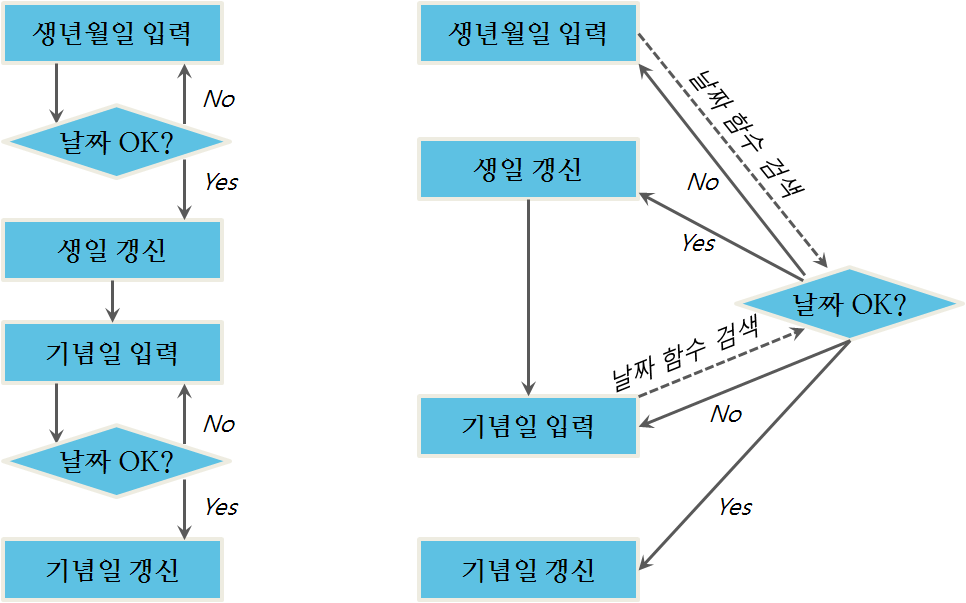
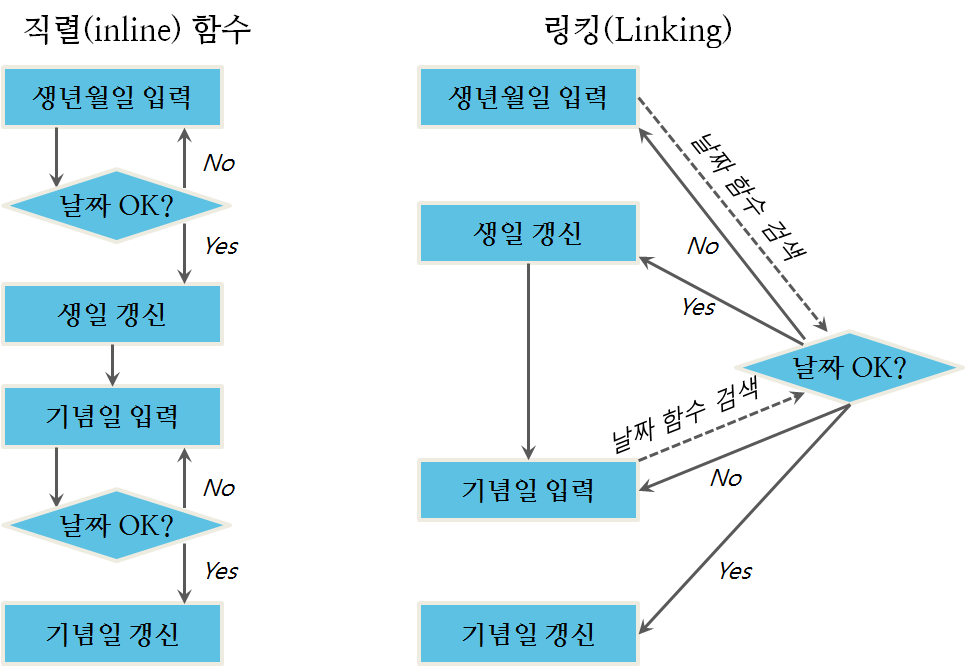
finished the initial chapter 02 translation

diff --git a/ch02-tutorial-on-computer-software.html b/ch02-tutorial-on-computer-software.html
@@ -95,6 +95,66 @@ One.\n&quot;)};return 0;}</code></pre>
 <p>식당손님으로 사용자는 식당이 어떻게 운영되는지 제한된 정보만 갖고 있다. 하지만, 보통 식당손님이 식당이 어떻게 운영되는지 알 필요는 없다; 손님은 단지 식사만 원할 뿐이다. 주방 종업원은 음식조리를 하려고 하지만 식당손님이 주방으로 넘어들어 오는 것을 원치는 않는다. 왜냐하면, 위험할 수도 있고 주방요리사 집중을 분산시킬 수도 있다.</p>
 <p>따라서, 응용프로그램은 하드웨어에 제한된 접근을 갖고, 미리 정의된 방식으로 운영체제와 상호작용해야 하며, 운영체제가 할당한 공간 내에서만 동작해야만 된다. 결과로, 프로그램을 작성하는데 있어 응용프로그램이 더 간단하고 효율적이다.</p>
 <h3 id="동적-링킹과-정적-링킹">동적 링킹과 정적 링킹</h3>
+<p>이론적으로, 백지 한장을 갖고 앉아서 단일 소스코드 파일로 구성된 프로그램을 작성하는 것이 가능하다. 하지만, 어느 누구도 그런 방식으로 소프트웨어를 작성하지는 않는다. 변호사는 이점을 잘 이해하여야 되는데 이유는 결코 아무 것도 없는 상태에서 복잡한 문서를 작성하는 않는다; 대신에, 모형 혹은 사례를 가지고 시작하고 목적에 맞춰 가다듬어 나간다. 매번 동일한 변경작업을 수행하고 있다고 발견한 일부 변호사는 상황에 맞춰 변하는 정보만을 채워서 효과적으로 준비할 수 있는 서식형태 문서를 만들어 나간다. 만약 변호사가 아니라면, 아마도 편지나 발표자료를 준비하고 나서 생각하기에 유사한 또다른 편지나 발표자료도 준비했다. 아마도 원래 편지나 발표자료 일부분을 모형으로 사용하고 다른 부분은 폐기했을 것이다.</p>
+<p>프로그래머도 동일한 방식으로 프로그램을 작성하지만, 철저하게 체계적인 재사용 접근방법을 취한다. 이렇게 하는 것이 표절이나 부정행위는 아니다 - 좋은 코딩 관례다. 이유는 코드가 기능적이기 때문이다; 코드는 올바르게 동작해야만 된다. 이미 검증된 코드는 만약 작업을 수행하는데 효과적이라면, 다시 코드를 작성하기 보다 적절하게 재사용되어야 한다. 변호사처럼 프로그래머도 프로그램 실행을 기술하는 소스코드와 사람이 읽을 수 있는 문서에 모두 예술적 문구를 사용한다. 이런 예술적 문구를 통합하는 것은 최소 학습 비용으로 좀더 많은 프로그래머가 팀에 추가될 수 있다는 의미를 함축하고 있다.</p>
+<p>예를 들어, 사용자가 본인 전화번호를 프로그램에 입력하는 소프트웨어를 프로그래머가 작성한다고 가정하자. 전화번호는 특정 구성방식이 있다 - 미국에서는 <code>1-617-542-5942</code> 같은 구성방식이 사용된다. <code>1</code> 은 국가코드, <code>617</code>은 지역코드, <code>542</code>는 교환번호, <code>5742</code>는 숫자다. 다른 국가와 도시에 다른 구성방식이 존재한다. 그래서, 프로그래머가 코드 일부를 사용해서 사용자 입력을 옮겨가기 전에 번호가 올바른 구성방식인지 검증하고자 한다.</p>
+<p>분명히, 무수히 많은 사람들이 단순 연산작업을 수행해야 하지만, 프로그래머가 가능한 적법한 모든 구성방식을 알지는 못한다. 그래서, 프로그래머가 이 작업을 수행하던 기존 라이브러리 루틴을 사용하는 것은 일리가 있다. 프로그래머는 사용자에게서 받은 입력값(키보드로 타이핑된 문자열)을 전송하고 부울 값으로 반환결과가 나오길 예상한다: OK면 참(TRUE), KO면 거짓(FALSE). 만약 이런 라이브러리 루틴이 잘 작성되었다면, 모든 프로그래머는 어떤 정보가 전송되고 반환되는 정보가 무슨 의미인지 알 수 있어야 된다. 앞에서 설명되했듯이, 루틴이 동작하는 것은 프로그래머에게 블랙박스다. 식당을 비유하자면, 만약 주방이 잘 운영되고 있다고 믿는다면, 주방에서 무슨 일이 일어나는지 알 필요는 없다 - 단지 입력값(메뉴 주문)을 건네주고 출력값(식사)을 받기만 하면 된다.</p>
+<p>이제 프로그래머가 이런 작업을 많이 수행한다고 생각해보자. 예를 들어, 만약 사용자가 한 페이지에 정보를 채워넣는다면, 모든 필드가 검사될 필요가 있다. 프로그래머는 수많은 표준과 계산 목적에 맞춘 코드 라이브러리를 사용한다 - 사용자 입력 파싱, 출력을 프린터에 전송, 수학적 계산 뿐만 아니라, 전자우편 발송과 모뎀이 켜져 있는지, 프로그램 갱신에 대한 점검 같은 복잡한 작업을 들 수 있다. 어떤 경우에도 프로그래머는 바퀴를 재발명하고 싶지는 않다 (“Don’t reinvent the wheel”). 프로그래머는 작성한 프로그램이 새로운 것을 수행하는데만 집중하고자 한다. 위에서 기술된 함수 [예제][4]가 다음에 나와 있다:</p>
+<pre><code>[4]:코드 프로젝트에서 함수를 가져왔다: http://www.codeproject.com/Articles/1874/Validating-E-Mails-amp-Phone-Number/</code></pre>
+<pre class="sourceCode python"><code class="sourceCode python">BOOL ValidatePhone(CString FaxNum)
+{
+    BOOL        RtnVal = TRUE;
+
+    <span class="kw">if</span>(FaxNum.GetLength() != <span class="dv">11</span>)
+    {
+        RtnVal = FALSE;
+    }
+    <span class="kw">else</span>
+    {
+        <span class="dt">int</span>     Pos;
+        <span class="dt">int</span>     NumChars;
+
+        NumChars = FaxNum.GetLength();
+        FaxNum.MakeUpper();
+
+        <span class="kw">for</span>(Pos = <span class="dv">0</span>; Pos &lt; NumChars; Pos ++)
+        {
+            <span class="kw">if</span>(!isdigit(FaxNum[Pos]))
+            {
+                <span class="kw">if</span>(!isspace(FaxNum[Pos]))
+                    RtnVal = FALSE;
+            }
+        }
+    }
+    <span class="kw">return</span> RtnVal;
+}</code></pre>
+<p>상기 예제에서, 반환되는 값은 <em>BOOL</em>, 즉 부울값 참(true) 혹은 거짓(false)이다. 입력은 <code>Num</code>으로 문자열이다. 상기 루틴은 문자 갯수가 올바른지와 모든 문자가 숫자 혹은 공백인지만 검사한다. 루틴의 첫번째 줄은 어떤 정보가 문자열로 전달될 필요가 있는지 무슨 정보가 반환되는지 (부울값)를 보여준다. 만약 프로그래머가 상기 루틴이 본인 목적을 달성한다는 것을 안다면, 프로그래머가 알 필요가 있는 것은 첫번째 줄이다. 상기 루틴을 실행시킬 때, 프로그래머는 다음과 같은 라인을 포함한다:</p>
+<pre class="sourceCode python"><code class="sourceCode python">    until ValidatePhone (MyNum). . .{[code to <span class="dt">input</span> My-
+    Num <span class="ch">from</span> the user]};</code></pre>
+<p>숫자가 적법하고 루틴이 참값을 반환할 때까지 상기 라인은 실행된다.</p>
+<p>프로그래머가 사용에 필요한 모든 루틴을 갖게 되고, 모든 루틴을 목적코드로 컴파일하고 나면, 함께 목적코드를 엮을 필요가 있다. 다른 말로, 상기 코드 라인을 작성할 때, 컴퓨터는 상기 루틴에 대한 목적 코드를 찾아서 실행하고 나서 결과를 프로그램에 다시 전달한다. 이 작업을 위해서, 컴퓨터는 해당 루틴을 어디서 찾을 수 있는지, 작업결과를 어디로 다시 전달해야 하는지 알 필요가 있다. 이 과정이 그림 2.4와 같다.</p>
+<p><img src="fig/fig-2-4-communication-between-program-and-routine.png" width="70%" alt="프로그램과 루틴 사이 의사소통" /> 그림 2.4 프로그램과 루틴 사이 의사소통</p>
+<p>전체 프로그램은 목적 코드와 함께 메인 프로그램에서 전화번호 루틴으로 들어가는 출입구에 대한 정보가 담겨있다.</p>
+<p>프로그램이 효율적으로 루틴을 모듈로 구분한다고 가정하면, 효율적으로 실행되는 프로그램을 만들도록 좀더 많은 의사결정항목이 남아있다. 프로그래밍은 항상 메모리 사용과 속도 사이에 주고받는 균형점을 찾아야 한다. 예를 들어, 전체 프로그램이 한덩어리 매우 큰 “이진 BLOB(Binary Large Object)”으로 존재하면 매우 빠르게 실행된다. 하지만, 그렇게 되면 엄청난 [메모리][5] 자원을 사용한다. 속도와 메모리의 적절한 균형을 찾고자, 프로그래머는 <em>빌드(build)</em> 해서 소프트웨어를 만든다.</p>
+<pre><code>[5]: *메모리(memory)*는 컴퓨터가 프로그램을 간직하고 실행하는 영역임을 명심한다; *저장소(storage)*는 하드디스크, CD-ROM, USB 드라이브 처럼 파일을 저장하는 장소다.</code></pre>
+<p>그림 2.5에 나온 도식화는 날짜 검증 루틴을 사용하는 프로그램 빌드 방법을 나타내고 있는데 이런 점을 고려하고 있다.</p>
+<p>“링킹(Linking)” 선택옵션은 적은 메모리를 필요로 한다. 네모 상자와 다이아몬드 표식을 메모리로 사용되는 공간으로 간주할 수 있다. 링킹 선택옵션에는 단지 “날짜 OK?” 루틴이 단 하나만 사용된다. 반면에 직렬(inline) 함수 선택옵션의 경우는 동일하지만, 두번 나온다. 하지만, 링킹 선택옵션은 좀더 늦게 실행되는데 이유는 자동으로 “날짜 OK” 함수를 내려가면서 실행하는 대신에, 컴퓨터가 함수를 찾고(점선으로 표현됨), 실행하고, 메인 프로그램 처리에 결과값을 반환해야만 된다.</p>
+<p>C++같은 일부 언어에서, 링크 연결하는 다른 방식이 있다. 컴퓨터를 사용했다면, “DLL Not Found(DLL 파일을 찾을 수 없습니다)” 오류 메시지를 본 적이 있는가? 이 경우, 컴퓨터가 동적 링크된 라이브러리(Dynamically Linked Library, DLL)를 실행하도록 지시를 받았지만, 메모리에서 라이브러리를 찾을 수 없는 것이다. 루틴이 <em>동적 링크(dynamic linking)</em>을 통해 호출될 때, 컴퓨터는 실행 시점에 루틴을 찾아, 실행하고 나서 메모리에서 삭제하고 호출한 프로그램으로 다시 되돌아 간다. 루틴이 돌 때까지, 루틴이 메모리에 존재할 필요는 없다는 암시다. 실수로, 루틴이 없고 프로그램이 결코 호출하는 일이 없다면, 잘못될 것이 아무것도 없다. 이것과 대조해서, <em>정적 링킹(static linking)</em>의 경우 루틴이 항상 메모리에 있어야 하고, 호출되는 루틴으로서 같은 바이러리 파일의 일부여야 한다. 이것이 의미하는 바는 “DLL 파일을 찾을 수 없습니다” 같은 오류는 일어날 수 없다는 것이다; 정의자체로 루틴이 메모리에 상주해야만 된다.</p>
+<p><img src="fig/fig-2-5-build-of-program.png" width="70%" alt="날짜를 검증하는 프로그램 빌드" /> 그림 2.5 날짜를 검증하는 프로그램 빌드</p>
+<p>정적 링킹이 동적 링킹보다 더 신속하게 실행한다. 컴퓨터가 찾고, 실행하고 동적 링크된 루틴을 제거하는데 소요되는 시간이 매우 짧지만, 컴퓨터가 아주 많이 이러한 작업을 하거나, 처리 속도가 매우 중요한 예를 들어, 동영상 스트리밍 서비스, 게임, 감시작업의 경우 동적 링킹은 쓸 수없는 선택지가 된다. 하지만, 정적 링킹은 모든 루팅이 한번에 메모리에 상주해야 되기 때문에 메모리를 많이 잡아 먹는다. 정적 링킹은 구동시간도 많이 잡아 먹는데 이유는 프로그램이 실행될 때 모든 루틴이 메모리에 적재되어야만 되기 때문이다.</p>
+<p>이러한 빌드 기법은 상호호환이 가능하다. 동일한 코드가 다양한 방식으로 빌드하여 만들 수 있다. 단순히 빌드 프로그램에게 빌드하는 방식을 지시함으로서도 가능한다. “빌드 스크립트(build script)”로 불리는 명령집합으로 구현되는데, 빌드 스크립트에는 “모든 루틴을 동적 링크로 빌드하라” 혹은 “모든 루틴을 직렬(inline) 빌드하라” 혹은 “루틴마다 취사선택하여 빌드라하” 같은 명령집합이 포함된다. 하지만, 현대식 컴퓨터 컴파일러와 링커가 항상 프로그래머가 지시한대로 작업을 수행하는 것은 아니다; 효율성에 기반해서 빌드 방법을 골라서 프로그램 빌드를 <em>최적화(optimize)</em>하는 기능도 일부에서 제공한다.</p>
+<h3 id="단일-암체이며-적재가능한-커널-모듈">단일 암체이며 적재가능한 커널 모듈</h3>
+<p>일부 운영체제는 <em>단일 암체(monolithic)</em>로 운영체제가 하나의 거대한 바이너리로 구성된다. 리눅스는 <em>준-단일암체(quasi-monolithic)</em> 아키텍쳐다. 리눅스 커널 대부분의 구성요소는 정적으로 링크되어 있고 런타임에 적재된다. 하지만, 일부 구성요소 - 특히 하드웨어 기기 드라이버 - 는 동적 링크 모듈로 구현될 수 있다. 이러한 사실이 8장에서 깊이 논의될 매우 중요한 법적 질문을 던진다: GPL 2 국경분쟁 (Border Dispute).</p>
+<pre><code>[6]: 리눅스 내부 (Linux Internals), 2.15절, http://www.cse.unsw.edu.au/~cs9242/11/lectures/08-linux_internals.pdf</code></pre>
+<h3 id="헤더-파일">헤더 파일</h3>
+<p>헤더 파일은 바이너리 파일에서 또다른 바이러리 파일로 전달되야 되는 정보를 기술한다. 그래서 두 바이너리 파일이 상호 정보교환이 가능하게 된다. 날짜 검증 루틴(“날짜 OK?”)에서, 입력값이 2009년 8월 6일 같은 날짜면, 출력값은 이진수(OK인 경우 0, KO인 경우 1)가 나온다. 헤더 파일은 다음과 같다:</p>
+<pre class="sourceCode python"><code class="sourceCode python">    extern <span class="dt">int</span> dateOK(<span class="dt">int</span> mm, <span class="dt">int</span> dd, <span class="dt">int</span> yyyy); </code></pre>
+<p>코드에 존재하는 <code>extern</code> 단어가 의미하는 바는 다른 소스 파일 루틴에서 해당 루틴을 사용될 수 있다는 것이다; 인터페이스에 정보가 다른 파일에서 잡아서 사용할 수 있을 만큼 오랜동안 지속할 필요가 있다고 커퓨터에게 알려준다. 자료형 <code>int</code>는 함수가 단일 정수값을 반환한다는 의미다. 컴퓨팅에서 integer는 양과 음의 정수다. 상기 루틴에서 반환값은 [1 혹은 0][7] 이다. 이것이 함수 출력값이다. 함수는 입력 변수를 세개 받는다: [<code>mm</code>, <code>dd</code>, <code>yyyy</code>][8]. 이런 입력값을 <em>인자(argument)</em>라고도 부른다. 상기 예제에서, 각 변수는 자료형이 정수형이다. <code>dateok</code>가 함수명이다; 호출 프로그램가 이 함수를 호출할 때, 다음과 같은 문장을 사용한다.</p>
+<pre><code>[7]: 물론 부울 반환값을 사용할 수도 있다. 정수값은 단순화하려고 사용했다.
+[8]: 물론, 날짜 자료형을 사용할 수도 있다. 하지만, 재미는 없을 듯 하다.</code></pre>
+<pre class="sourceCode python"><code class="sourceCode python">    <span class="kw">if</span> (dateOK(<span class="dv">6</span>,<span class="dv">26</span>,<span class="dv">1906</span>)) [update record] <span class="kw">else</span> [go back to <span class="dt">input</span>];</code></pre>
+<p>꺾쇠 괄호 내부 항목은 지금으로서는 고려할 필요가 없는 다른 프로그래밍 문장을 나타낸다. 하지만, 상기 도식화된 논리 흐름을 따른다.</p>
+<p>날짜 검증 루틴은 훨씬 더 많은 처리를 담고 있다. 예를 들어, 월 정보가 1과 12 사이인지, 년도 정보가 예상범위에 있고, 일 정보가 해당 월 일자 정보와 일치하는지 검사한다. 하지만, 중요한 점이 하나 있다: 루틴을 사용하는데 상세한 내용을 알 필요는 없다. 알 필요가 있는 모든 것은 함수가 무엇을 수행하고, 검증되었고 동작한다는 사실과, 예상되는 반환값이 무엇이냐는 것이다. 헤더 파일은 함수를 사용하는데 필수적으로 필요한 정보만 담고 있다: 함수 명칭, 인자 갯수, 인자 자료형, 인자 순서, 반환 자료형. 따라서, 함수는 그 자체로 소프트웨어 코드가 아니다. 헤더 파일은 인터페이스 정의다. (소프트웨어 법에 2차 저작물 본질에 논의에서 중요한 사실로 8장에서 좀더 깊이 논의된다: GPL 2 국경분쟁).</p>
         </div>
       </div>
       </article>

diff --git a/ch02-tutorial-on-computer-software.md b/ch02-tutorial-on-computer-software.md
@@ -197,9 +197,24 @@ BOOL ValidatePhone(CString FaxNum)
 <img src="fig/fig-2-4-communication-between-program-and-routine.png" width="70%" alt="프로그램과 루틴 사이 의사소통" />
 그림 2.4 프로그램과 루틴 사이 의사소통
 
+전체 프로그램은 목적 코드와 함께 메인 프로그램에서 전화번호 루틴으로 들어가는 출입구에 대한 정보가 담겨있다. 
+
+프로그램이 효율적으로 루틴을 모듈로 구분한다고 가정하면, 효율적으로 실행되는 프로그램을 만들도록 좀더 많은 의사결정항목이 남아있다. 프로그래밍은 항상 메모리 사용과 속도 사이에 주고받는 균형점을 찾아야 한다. 예를 들어, 전체 프로그램이 한덩어리 매우 큰 "이진 BLOB(Binary Large Object)"으로 존재하면 매우 빠르게 실행된다. 하지만, 그렇게 되면 엄청난 [메모리][5] 자원을 사용한다. 속도와 메모리의 적절한 균형을 찾고자, 프로그래머는 *빌드(build)* 해서 소프트웨어를 만든다.
+
+    [5]: *메모리(memory)*는 컴퓨터가 프로그램을 간직하고 실행하는 영역임을 명심한다; *저장소(storage)*는 하드디스크, CD-ROM, USB 드라이브 처럼 파일을 저장하는 장소다.
+
+그림 2.5에 나온 도식화는 날짜 검증 루틴을 사용하는 프로그램 빌드 방법을 나타내고 있는데 이런 점을 고려하고 있다.
+
+"링킹(Linking)" 선택옵션은 적은 메모리를 필요로 한다. 네모 상자와 다이아몬드 표식을 메모리로 사용되는 공간으로 간주할 수 있다. 링킹 선택옵션에는 단지 "날짜 OK?" 루틴이 단 하나만 사용된다. 반면에 직렬(inline) 함수 선택옵션의 경우는 동일하지만, 두번 나온다. 하지만, 링킹 선택옵션은 좀더 늦게 실행되는데 이유는 자동으로 "날짜 OK" 함수를 내려가면서 실행하는 대신에, 컴퓨터가 함수를 찾고(점선으로 표현됨), 실행하고, 메인 프로그램 처리에 결과값을 반환해야만 된다.
+
+C++같은 일부 언어에서, 링크 연결하는 다른 방식이 있다. 컴퓨터를 사용했다면, "DLL Not Found(DLL 파일을 찾을 수 없습니다)" 오류 메시지를 본 적이 있는가? 이 경우, 컴퓨터가 동적 링크된 라이브러리(Dynamically Linked Library, DLL)를 실행하도록 지시를 받았지만, 메모리에서 라이브러리를 찾을 수 없는 것이다. 루틴이 *동적 링크(dynamic linking)*을 통해 호출될 때, 컴퓨터는 실행 시점에 루틴을 찾아, 실행하고 나서 메모리에서 삭제하고 호출한 프로그램으로 다시 되돌아 간다. 루틴이 돌 때까지, 루틴이 메모리에 존재할 필요는 없다는 암시다. 실수로, 루틴이 없고 프로그램이 결코 호출하는 일이 없다면, 잘못될 것이 아무것도 없다. 이것과 대조해서, *정적 링킹(static linking)*의 경우 루틴이 항상 메모리에 있어야 하고, 호출되는 루틴으로서 같은 바이러리 파일의 일부여야 한다. 이것이 의미하는 바는 "DLL 파일을 찾을 수 없습니다" 같은 오류는 일어날 수 없다는 것이다; 정의자체로 루틴이 메모리에 상주해야만 된다.
 
 <img src="fig/fig-2-5-build-of-program.png" width="70%" alt="날짜를 검증하는 프로그램 빌드" />
 그림 2.5 날짜를 검증하는 프로그램 빌드
+
+정적 링킹이 동적 링킹보다 더 신속하게 실행한다. 컴퓨터가 찾고, 실행하고 동적 링크된 루틴을 제거하는데 소요되는 시간이 매우 짧지만, 컴퓨터가 아주 많이 이러한 작업을 하거나, 처리 속도가 매우 중요한 예를 들어, 동영상 스트리밍 서비스, 게임, 감시작업의 경우 동적 링킹은 쓸 수없는 선택지가 된다. 하지만, 정적 링킹은 모든 루팅이 한번에 메모리에 상주해야 되기 때문에 메모리를 많이 잡아 먹는다. 정적 링킹은 구동시간도 많이 잡아 먹는데 이유는 프로그램이 실행될 때 모든 루틴이 메모리에 적재되어야만 되기 때문이다.
+
+이러한 빌드 기법은 상호호환이 가능하다. 동일한 코드가 다양한 방식으로 빌드하여 만들 수 있다. 단순히 빌드 프로그램에게 빌드하는 방식을 지시함으로서도 가능한다. "빌드 스크립트(build script)"로 불리는 명령집합으로 구현되는데, 빌드 스크립트에는 "모든 루틴을 동적 링크로 빌드하라" 혹은 "모든 루틴을 직렬(inline) 빌드하라" 혹은 "루틴마다 취사선택하여 빌드라하" 같은 명령집합이 포함된다. 하지만, 현대식 컴퓨터 컴파일러와 링커가 항상 프로그래머가 지시한대로 작업을 수행하는 것은 아니다; 효율성에 기반해서 빌드 방법을 골라서 프로그램 빌드를 *최적화(optimize)*하는 기능도 일부에서 제공한다.    
 
 
 ### 단일 암체이며 적재가능한 커널 모듈
@@ -209,4 +224,23 @@ BOOL ValidatePhone(CString FaxNum)
     [6]: 리눅스 내부 (Linux Internals), 2.15절, http://www.cse.unsw.edu.au/~cs9242/11/lectures/08-linux_internals.pdf
 
 ### 헤더 파일
+
+헤더 파일은 바이너리 파일에서 또다른 바이러리 파일로 전달되야 되는 정보를 기술한다. 그래서 두 바이너리 파일이 상호 정보교환이 가능하게 된다. 날짜 검증 루틴("날짜 OK?")에서, 입력값이 2009년 8월 6일 같은 날짜면, 출력값은 이진수(OK인 경우 0, KO인 경우 1)가 나온다. 헤더 파일은 다음과 같다:
+
+~~~ {.python}
+    extern int dateOK(int mm, int dd, int yyyy); 
+~~~
+
+코드에 존재하는 `extern` 단어가 의미하는 바는 다른 소스 파일 루틴에서 해당 루틴을 사용될 수 있다는 것이다; 인터페이스에 정보가 다른 파일에서 잡아서 사용할 수 있을 만큼 오랜동안 지속할 필요가 있다고 커퓨터에게 알려준다. 자료형 `int`는 함수가 단일 정수값을 반환한다는 의미다. 컴퓨팅에서 integer는 양과 음의 정수다. 상기 루틴에서 반환값은 [1 혹은 0][7] 이다. 이것이 함수 출력값이다. 함수는 입력 변수를 세개 받는다: [`mm`, `dd`, `yyyy`][8]. 이런 입력값을 *인자(argument)*라고도 부른다. 상기 예제에서, 각 변수는 자료형이 정수형이다. `dateok`가 함수명이다; 호출 프로그램가 이 함수를 호출할 때, 다음과 같은 문장을 사용한다.  
+
+    [7]: 물론 부울 반환값을 사용할 수도 있다. 정수값은 단순화하려고 사용했다.
+    [8]: 물론, 날짜 자료형을 사용할 수도 있다. 하지만, 재미는 없을 듯 하다.
+
+~~~ {.python}
+    if (dateOK(6,26,1906)) [update record] else [go back to input];
+~~~
+
+꺾쇠 괄호 내부 항목은 지금으로서는 고려할 필요가 없는 다른 프로그래밍 문장을 나타낸다. 하지만, 상기 도식화된 논리 흐름을 따른다. 
+
+날짜 검증 루틴은 훨씬 더 많은 처리를 담고 있다. 예를 들어, 월 정보가 1과 12 사이인지, 년도 정보가 예상범위에 있고, 일 정보가 해당 월 일자 정보와 일치하는지 검사한다. 하지만, 중요한 점이 하나 있다: 루틴을 사용하는데 상세한 내용을 알 필요는 없다. 알 필요가 있는 모든 것은 함수가 무엇을 수행하고, 검증되었고 동작한다는 사실과, 예상되는 반환값이 무엇이냐는 것이다. 헤더 파일은 함수를 사용하는데 필수적으로 필요한 정보만 담고 있다: 함수 명칭, 인자 갯수, 인자 자료형, 인자 순서, 반환 자료형. 따라서, 함수는 그 자체로 소프트웨어 코드가 아니다. 헤더 파일은 인터페이스 정의다. (소프트웨어 법에 2차 저작물 본질에 논의에서 중요한 사실로 8장에서 좀더 깊이 논의된다: GPL 2  국경분쟁). 
 
